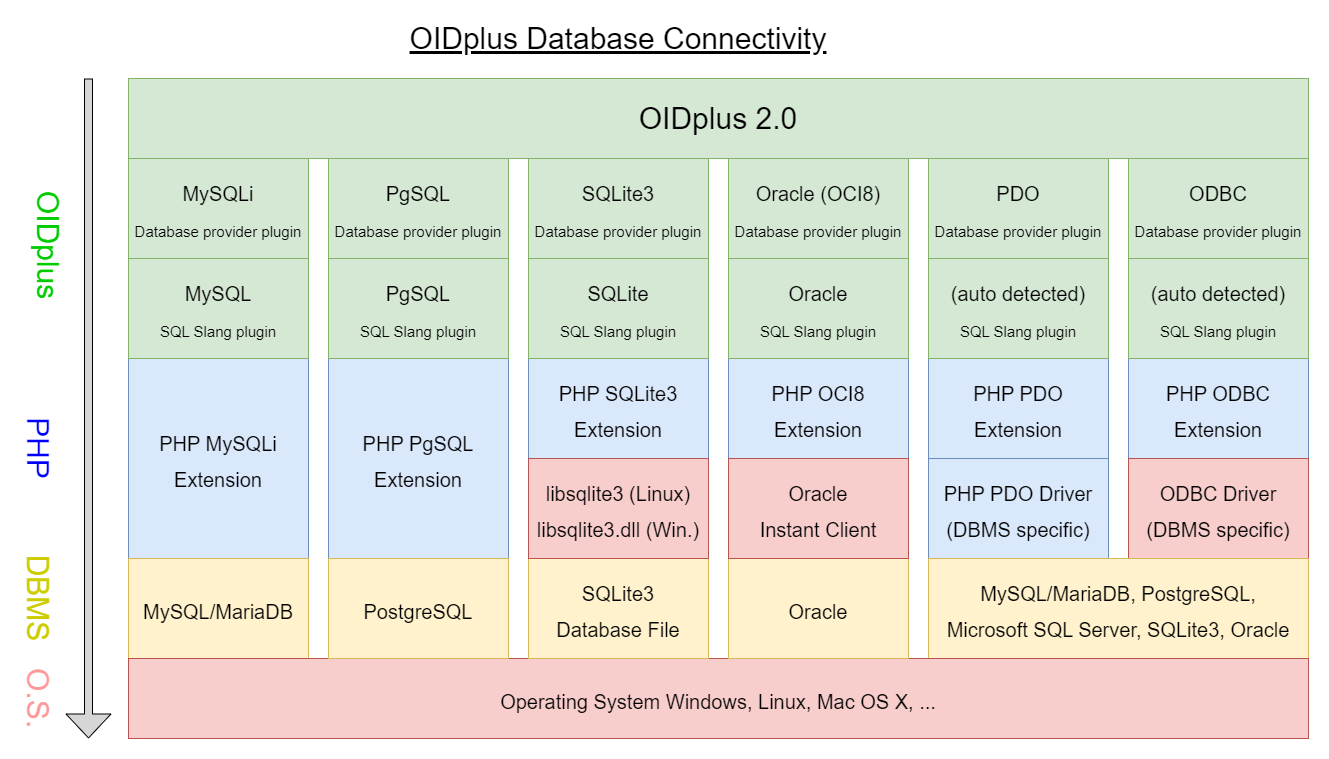
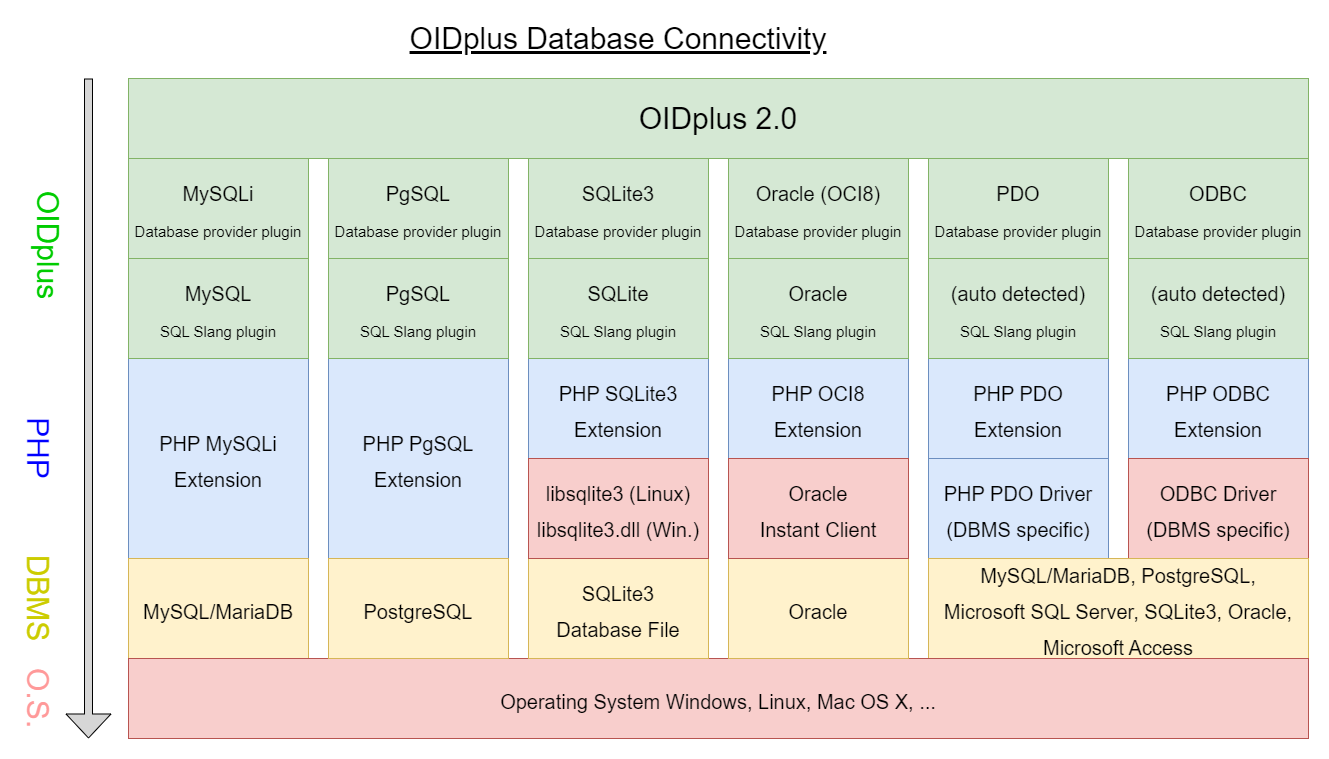
Announced Microsoft Access compatibility
git-svn-id: https://svn.viathinksoft.com/svn/oidplus/trunk@1173 02e4d621-2042-4998-a0bc-9ccd24201011

Changed region(s): [[0.7096, 0.7273, 0.9872, 0.8788]]

diff --git a/setup/includes/setup_base.js b/setup/includes/setup_base.js
@@ -114,9 +114,9 @@ function doRebuild(admPwdHash, pwComment) {
 			'<br>' +
 			// Passwords are Base64 encoded to avoid that passwords can be read upon first sight,
 			// e.g. if collegues are looking over your shoulder while you accidently open (and quickly close) userdata/baseconfig/config.inc.php
-			'OIDplus::baseConfig()->setValue(\'ADMIN_PASSWORD\',    \'' + admPwdHash + '\'); // '+pwComment+'<br>' +
+			'OIDplus::baseConfig()->setValue(\'ADMIN_PASSWORD\',    ' + jsString(admPwdHash) + '); // '+pwComment+'<br>' +
 			'<br>' +
-			'OIDplus::baseConfig()->setValue(\'DATABASE_PLUGIN\',   \''+strDatabasePlugin+'\');<br>';
+			'OIDplus::baseConfig()->setValue(\'DATABASE_PLUGIN\',   ' + jsString(strDatabasePlugin) + ');<br>';
 		for (var i = 0; i < rebuild_config_callbacks.length; i++) {
 			var f = rebuild_config_callbacks[i];
 			var cont = f();
@@ -126,11 +126,11 @@ function doRebuild(admPwdHash, pwComment) {
 		}
 		$("#config")[0].innerHTML = $("#config")[0].innerHTML +
 			//'<br>' +
-			'OIDplus::baseConfig()->setValue(\'TABLENAME_PREFIX\',  \''+$("#tablename_prefix")[0].value+'\');<br>' +
+			'OIDplus::baseConfig()->setValue(\'TABLENAME_PREFIX\',  ' + jsString($("#tablename_prefix")[0].value) + ');<br>' +
 			'<br>' +
-			'OIDplus::baseConfig()->setValue(\'SERVER_SECRET\',     \''+generateRandomString(32)+'\');<br>' +
+			'OIDplus::baseConfig()->setValue(\'SERVER_SECRET\',     ' + jsString(generateRandomString(32)) + ');<br>' +
 			'<br>' +
-			'OIDplus::baseConfig()->setValue(\'CAPTCHA_PLUGIN\',    \''+strCaptchaPlugin+'\');<br>';
+			'OIDplus::baseConfig()->setValue(\'CAPTCHA_PLUGIN\',    ' + jsString(strCaptchaPlugin) + ');<br>';
 		for (var i = 0; i < captcha_rebuild_config_callbacks.length; i++) {
 			var f = captcha_rebuild_config_callbacks[i];
 			var cont = f();
@@ -141,12 +141,12 @@ function doRebuild(admPwdHash, pwComment) {
 
 		$("#config")[0].innerHTML = $("#config")[0].innerHTML +
 			'<br>' +
-			'OIDplus::baseConfig()->setValue(\'ENFORCE_SSL\',       '+$("#enforce_ssl")[0].value+');<br>';
+			'OIDplus::baseConfig()->setValue(\'ENFORCE_SSL\',       ' + $("#enforce_ssl")[0].value + ');<br>';
 
 		if ($("#canonical_url")[0].value.trim() != '') {
 			$("#config")[0].innerHTML = $("#config")[0].innerHTML +
 				'<br>' +
-				'OIDplus::baseConfig()->setValue(\'CANONICAL_SYSTEM_URL\', \''+$("#canonical_url")[0].value.trim()+'\');<br>';
+				'OIDplus::baseConfig()->setValue(\'CANONICAL_SYSTEM_URL\', ' + jsString($("#canonical_url")[0].value.trim()) + ');<br>';
 		}
 
 		$("#config")[0].innerHTML = $("#config")[0].innerHTML.replaceAll(' ', '&nbsp;');

diff --git a/plugins/viathinksoft/publicPages/092_forgot_password_admin/OIDplusPagePublicForgotPasswordAdmin.js b/plugins/viathinksoft/publicPages/092_forgot_password_admin/OIDplusPagePublicForgotPasswordAdmin.js
@@ -54,7 +54,7 @@ var OIDplusPagePublicForgotPasswordAdmin = {
 				// sync call to calculate SHA3
 				var admPwdHash = hexToBase64(sha3_512(pw))
 				var pwComment = 'salted, base64 encoded SHA3-512 hash';
-				$("#config")[0].innerHTML = 'OIDplus::baseConfig()->setValue(\'ADMIN_PASSWORD\',    \'' + admPwdHash + '\'); // '+pwComment+'<br>';
+				$("#config")[0].innerHTML = 'OIDplus::baseConfig()->setValue(\'ADMIN_PASSWORD\',    ' + jsString(admPwdHash) + '); // '+pwComment+'<br>';
 				g_last_admPwdHash = admPwdHash;
 				g_last_pwComment = pwComment;
 
@@ -69,13 +69,13 @@ var OIDplusPagePublicForgotPasswordAdmin = {
 				bCryptWorker.onmessage = function (event) {
 					var admPwdHash = event.data;
 					var pwComment = 'bcrypt encoded hash';
-					$("#config")[0].innerHTML = 'OIDplus::baseConfig()->setValue(\'ADMIN_PASSWORD\',    \'' + admPwdHash + '\'); // '+pwComment+'<br>';
+					$("#config")[0].innerHTML = 'OIDplus::baseConfig()->setValue(\'ADMIN_PASSWORD\',    ' + jsString(admPwdHash) + '); // '+pwComment+'<br>';
 					g_last_admPwdHash = admPwdHash;
 					g_last_pwComment = pwComment;
 					g_prevBcryptPw = pw;
 				};
 			} else {
-				$("#config")[0].innerHTML = 'OIDplus::baseConfig()->setValue(\'ADMIN_PASSWORD\',    \'' + g_last_admPwdHash + '\'); // '+g_last_pwComment+'<br>';
+				$("#config")[0].innerHTML = 'OIDplus::baseConfig()->setValue(\'ADMIN_PASSWORD\',    ' + jsString(g_last_admPwdHash) + '); // '+g_last_pwComment+'<br>';
 			}
 		}
 	}

diff --git a/plugins/viathinksoft/database/odbc/OIDplusDatabasePluginODBCSetup.js b/plugins/viathinksoft/database/odbc/OIDplusDatabasePluginODBCSetup.js
@@ -72,8 +72,8 @@ rebuild_config_callbacks.push(function() {
 	var strPlugin = e.options[e.selectedIndex].value;
 	if (strPlugin != 'ODBC') return '';
 
-	return 'OIDplus::baseConfig()->setValue(\'ODBC_DSN\',          \''+$("#odbc_dsn")[0].value+'\');<br>' +
-	       'OIDplus::baseConfig()->setValue(\'ODBC_USERNAME\',     \''+$("#odbc_username")[0].value+'\');<br>' +
-	       'OIDplus::baseConfig()->setValue(\'ODBC_PASSWORD\',     '+_b64EncodeUnicode($("#odbc_password")[0].value)+');<br>' +
-	       'OIDplus::baseConfig()->setValue(\'FORCE_DBMS_SLANG\',  \''+$("#odbc_slang")[0].value+'\');<br>'; // optional
+	return 'OIDplus::baseConfig()->setValue(\'ODBC_DSN\',          ' + jsString($("#odbc_dsn")[0].value) + ');<br>' +
+	       'OIDplus::baseConfig()->setValue(\'ODBC_USERNAME\',     ' + jsString($("#odbc_username")[0].value) + ');<br>' +
+	       'OIDplus::baseConfig()->setValue(\'ODBC_PASSWORD\',     ' + _b64EncodeUnicode($("#odbc_password")[0].value) + ');<br>' +
+	       'OIDplus::baseConfig()->setValue(\'FORCE_DBMS_SLANG\',  ' + jsString($("#odbc_slang")[0].value) + ');<br>'; // optional
 });

diff --git a/plugins/viathinksoft/database/mysqli/OIDplusDatabasePluginMySQLiSetup.js b/plugins/viathinksoft/database/mysqli/OIDplusDatabasePluginMySQLiSetup.js
@@ -74,8 +74,8 @@ rebuild_config_callbacks.push(function() {
 	var strPlugin = e.options[e.selectedIndex].value;
 	if (strPlugin != 'MySQL') return '';
 
-	return 'OIDplus::baseConfig()->setValue(\'MYSQL_HOST\',        \''+$("#mysql_host")[0].value+'\');<br>' +
-	       'OIDplus::baseConfig()->setValue(\'MYSQL_USERNAME\',    \''+$("#mysql_username")[0].value+'\');<br>' +
-	       'OIDplus::baseConfig()->setValue(\'MYSQL_PASSWORD\',    '+_b64EncodeUnicode($("#mysql_password")[0].value)+');<br>' +
-	       'OIDplus::baseConfig()->setValue(\'MYSQL_DATABASE\',    \''+$("#mysql_database")[0].value+'\');<br>';
+	return 'OIDplus::baseConfig()->setValue(\'MYSQL_HOST\',        ' + jsString($("#mysql_host")[0].value) + ');<br>' +
+	       'OIDplus::baseConfig()->setValue(\'MYSQL_USERNAME\',    ' + jsString($("#mysql_username")[0].value) + ');<br>' +
+	       'OIDplus::baseConfig()->setValue(\'MYSQL_PASSWORD\',    ' + _b64EncodeUnicode($("#mysql_password")[0].value) + ');<br>' +
+	       'OIDplus::baseConfig()->setValue(\'MYSQL_DATABASE\',    ' + jsString($("#mysql_database")[0].value) + ');<br>';
 });

diff --git a/plugins/viathinksoft/database/pgsql/OIDplusDatabasePluginPgSqlSetup.js b/plugins/viathinksoft/database/pgsql/OIDplusDatabasePluginPgSqlSetup.js
@@ -74,8 +74,8 @@ rebuild_config_callbacks.push(function() {
 	var strPlugin = e.options[e.selectedIndex].value;
 	if (strPlugin != 'PgSQL') return '';
 
-	return 'OIDplus::baseConfig()->setValue(\'PGSQL_HOST\',        \''+$("#pgsql_host")[0].value+'\');<br>' +
-	       'OIDplus::baseConfig()->setValue(\'PGSQL_USERNAME\',    \''+$("#pgsql_username")[0].value+'\');<br>' +
-	       'OIDplus::baseConfig()->setValue(\'PGSQL_PASSWORD\',    '+_b64EncodeUnicode($("#pgsql_password")[0].value)+');<br>' +
-	       'OIDplus::baseConfig()->setValue(\'PGSQL_DATABASE\',    \''+$("#pgsql_database")[0].value+'\');<br>';
+	return 'OIDplus::baseConfig()->setValue(\'PGSQL_HOST\',        ' + jsString($("#pgsql_host")[0].value) + ');<br>' +
+	       'OIDplus::baseConfig()->setValue(\'PGSQL_USERNAME\',    ' + jsString($("#pgsql_username")[0].value) + ');<br>' +
+	       'OIDplus::baseConfig()->setValue(\'PGSQL_PASSWORD\',    ' + _b64EncodeUnicode($("#pgsql_password")[0].value) + ');<br>' +
+	       'OIDplus::baseConfig()->setValue(\'PGSQL_DATABASE\',    ' + jsString($("#pgsql_database")[0].value) + ');<br>';
 });

diff --git a/plugins/viathinksoft/database/pdo/OIDplusDatabasePluginPDOSetup.js b/plugins/viathinksoft/database/pdo/OIDplusDatabasePluginPDOSetup.js
@@ -72,8 +72,8 @@ rebuild_config_callbacks.push(function() {
 	var strPlugin = e.options[e.selectedIndex].value;
 	if (strPlugin != 'PDO') return '';
 
-	return 'OIDplus::baseConfig()->setValue(\'PDO_DSN\',           \''+$("#pdo_dsn")[0].value+'\');<br>' +
-	       'OIDplus::baseConfig()->setValue(\'PDO_USERNAME\',      \''+$("#pdo_username")[0].value+'\');<br>' +
+	return 'OIDplus::baseConfig()->setValue(\'PDO_DSN\',           '+jsString($("#pdo_dsn")[0].value)+');<br>' +
+	       'OIDplus::baseConfig()->setValue(\'PDO_USERNAME\',      '+jsString($("#pdo_username")[0].value)+');<br>' +
 	       'OIDplus::baseConfig()->setValue(\'PDO_PASSWORD\',      '+_b64EncodeUnicode($("#pdo_password")[0].value)+');<br>' +
-	       'OIDplus::baseConfig()->setValue(\'FORCE_DBMS_SLANG\',  \''+$("#pdo_slang")[0].value+'\');<br>'; // optional
+	       'OIDplus::baseConfig()->setValue(\'FORCE_DBMS_SLANG\',  '+jsString($("#pdo_slang")[0].value)+');<br>'; // optional
 });

diff --git a/plugins/viathinksoft/database/oci/OIDplusDatabasePluginOciSetup.js b/plugins/viathinksoft/database/oci/OIDplusDatabasePluginOciSetup.js
@@ -64,7 +64,7 @@ rebuild_config_callbacks.push(function() {
 	var strPlugin = e.options[e.selectedIndex].value;
 	if (strPlugin != 'Oracle (OCI8)') return '';
 
-	return 'OIDplus::baseConfig()->setValue(\'OCI_CONN_STR\',      \''+$("#oci_conn_str")[0].value+'\');<br>' +
-	       'OIDplus::baseConfig()->setValue(\'OCI_USERNAME\',      \''+$("#oci_username")[0].value+'\');<br>' +
-	       'OIDplus::baseConfig()->setValue(\'OCI_PASSWORD\',      '+_b64EncodeUnicode($("#oci_password")[0].value)+');<br>';
+	return 'OIDplus::baseConfig()->setValue(\'OCI_CONN_STR\',      ' + jsString($("#oci_conn_str")[0].value) + ');<br>' +
+	       'OIDplus::baseConfig()->setValue(\'OCI_USERNAME\',      ' + jsString($("#oci_username")[0].value) + ');<br>' +
+	       'OIDplus::baseConfig()->setValue(\'OCI_PASSWORD\',      ' + _b64EncodeUnicode($("#oci_password")[0].value) + ');<br>';
 });

diff --git a/plugins/viathinksoft/captcha/recaptcha/OIDplusCaptchaPluginRecaptchaSetup.js b/plugins/viathinksoft/captcha/recaptcha/OIDplusCaptchaPluginRecaptchaSetup.js
@@ -57,6 +57,6 @@ captcha_rebuild_config_callbacks.push(function() {
 	var strPlugin = e.options[e.selectedIndex].value;
 	if (strPlugin.toLowerCase() != 'reCAPTCHA'.toLowerCase()) return '';
 	return 'OIDplus::baseConfig()->setValue(\'RECAPTCHA_VERSION\', \\ViaThinkSoft\\OIDplus\\OIDplusCaptchaPluginRecaptcha::'+$("#recaptcha_version").find('option:selected').attr("name")+');<br>' +
-	       'OIDplus::baseConfig()->setValue(\'RECAPTCHA_PUBLIC\',  \''+$("#recaptcha_public")[0].value+'\');<br>' +
-	       'OIDplus::baseConfig()->setValue(\'RECAPTCHA_PRIVATE\', \''+$("#recaptcha_private")[0].value+'\');<br>';
+	       'OIDplus::baseConfig()->setValue(\'RECAPTCHA_PUBLIC\',  ' + jsString($("#recaptcha_public")[0].value) + ');<br>' +
+	       'OIDplus::baseConfig()->setValue(\'RECAPTCHA_PRIVATE\', ' + jsString($("#recaptcha_private")[0].value) + ');<br>';
 });

diff --git a/plugins/viathinksoft/captcha/hcaptcha/OIDplusCaptchaPluginHCaptchaSetup.js b/plugins/viathinksoft/captcha/hcaptcha/OIDplusCaptchaPluginHCaptchaSetup.js
@@ -60,6 +60,6 @@ captcha_rebuild_config_callbacks.push(function() {
 	var e = $("#captcha_plugin")[0];
 	var strPlugin = e.options[e.selectedIndex].value;
 	if (strPlugin != 'hCaptcha') return '';
-	return 'OIDplus::baseConfig()->setValue(\'HCAPTCHA_SITEKEY\',  \''+$("#hcaptcha_sitekey")[0].value+'\');<br>' +
-	       'OIDplus::baseConfig()->setValue(\'HCAPTCHA_SECRET\',   \''+$("#hcaptcha_secret")[0].value+'\');<br>';
+	return 'OIDplus::baseConfig()->setValue(\'HCAPTCHA_SITEKEY\',  ' + jsString($("#hcaptcha_sitekey")[0].value) + ');<br>' +
+	       'OIDplus::baseConfig()->setValue(\'HCAPTCHA_SECRET\',   ' + jsString($("#hcaptcha_secret")[0].value) + ');<br>';
 });

diff --git a/plugins/viathinksoft/database/sqlite3/OIDplusDatabasePluginSQLite3Setup.js b/plugins/viathinksoft/database/sqlite3/OIDplusDatabasePluginSQLite3Setup.js
@@ -54,6 +54,6 @@ rebuild_config_callbacks.push(function() {
 	var strPlugin = e.options[e.selectedIndex].value;
 	if (strPlugin != 'SQLite3') return '';
 
-	return 'OIDplus::baseConfig()->setValue(\'SQLITE3_FILE\',      \''+$("#sqlite3_file")[0].value+'\');<br>' +
-	       'OIDplus::baseConfig()->setValue(\'SQLITE3_ENCRYPTION\','+_b64EncodeUnicode($("#sqlite3_encryption")[0].value)+');<br>';
+	return 'OIDplus::baseConfig()->setValue(\'SQLITE3_FILE\',      ' + jsString($("#sqlite3_file")[0].value) + ');<br>' +
+	       'OIDplus::baseConfig()->setValue(\'SQLITE3_ENCRYPTION\',' + _b64EncodeUnicode($("#sqlite3_encryption")[0].value) + ');<br>';
 });

diff --git a/includes/oidplus_functions.js b/includes/oidplus_functions.js
@@ -237,3 +237,6 @@ function RemoveLastDirectoryPartOf(the_url) {
 	return( the_arr.join('/') );
 }
 
+function jsString(str) {
+	return "'" + str.replace("'", "\\'") + "'";
+}

diff --git a/plugins/viathinksoft/database/pdo/OIDplusDatabasePluginPDO.class.php b/plugins/viathinksoft/database/pdo/OIDplusDatabasePluginPDO.class.php
@@ -44,9 +44,11 @@ class OIDplusDatabasePluginPDO extends OIDplusDatabasePlugin {
 	 */
 	public static function setupHTML(): string {
 		return '<div id="DBPLUGIN_PARAMS_PDO">'.
-		       '	<p>PDO DSN (<a href="https://www.php.net/manual/de/pdo.drivers.php" target="_blank">more information</a>):<br><input id="pdo_dsn" type="text" value="mysql:dbname=oidplus;host=localhost" onkeypress="rebuild()" onkeyup="rebuild()" style="width:600px">  <span id="pdo_dsn_warn"></span>'.
+		       '	<p>PDO DSN (<a href="https://www.php.net/manual/de/pdo.drivers.php" target="_blank">'._L('more information').'</a>):<br><input id="pdo_dsn" type="text" value="mysql:dbname=oidplus;host=localhost" onkeypress="rebuild()" onkeyup="rebuild()" style="width:600px">  <span id="pdo_dsn_warn"></span>'.
+		       // TODO: Show these examples based on the slang the user chooses
 		       '	<br><font size="-1">'._L('Example for MySQL/MariaDB').': <i>mysql:dbname=oidplus;host=localhost;port=3306</i>'.
-		       '	<br>'._L('Example for PostgreSQL').':    <i>pgsql:dbname=oidplus;host=localhost;port=5432</i></font></p>'.
+		       '	<br>'._L('Example for PostgreSQL').': <i>pgsql:dbname=oidplus;host=localhost;port=5432</i>'.
+		       '	<br>'._L('Example for Microsoft Access').': <i>odbc:DRIVER={Microsoft Access Driver (*.mdb, *.accdb)};Dbq=C:\inetpub\wwwroot\oidplus\trunk\userdata\database\oidplus.accdb;</i></font></p>'.
 		       '	<p>'._L('PDO Username').':<br><input id="pdo_username" type="text" value="root" onkeypress="rebuild()" onkeyup="rebuild()">  <span id="pdo_username_warn"></span></p>'.
 		       '	<p>'._L('PDO Password').':<br><input id="pdo_password" type="password" value="" onkeypress="rebuild()" onkeyup="rebuild()">  <span id="pdo_password_warn"></span></p>'.
 		       '	<p>'._L('Which DBMS (SQL dialect) is used?').'<br>'.
